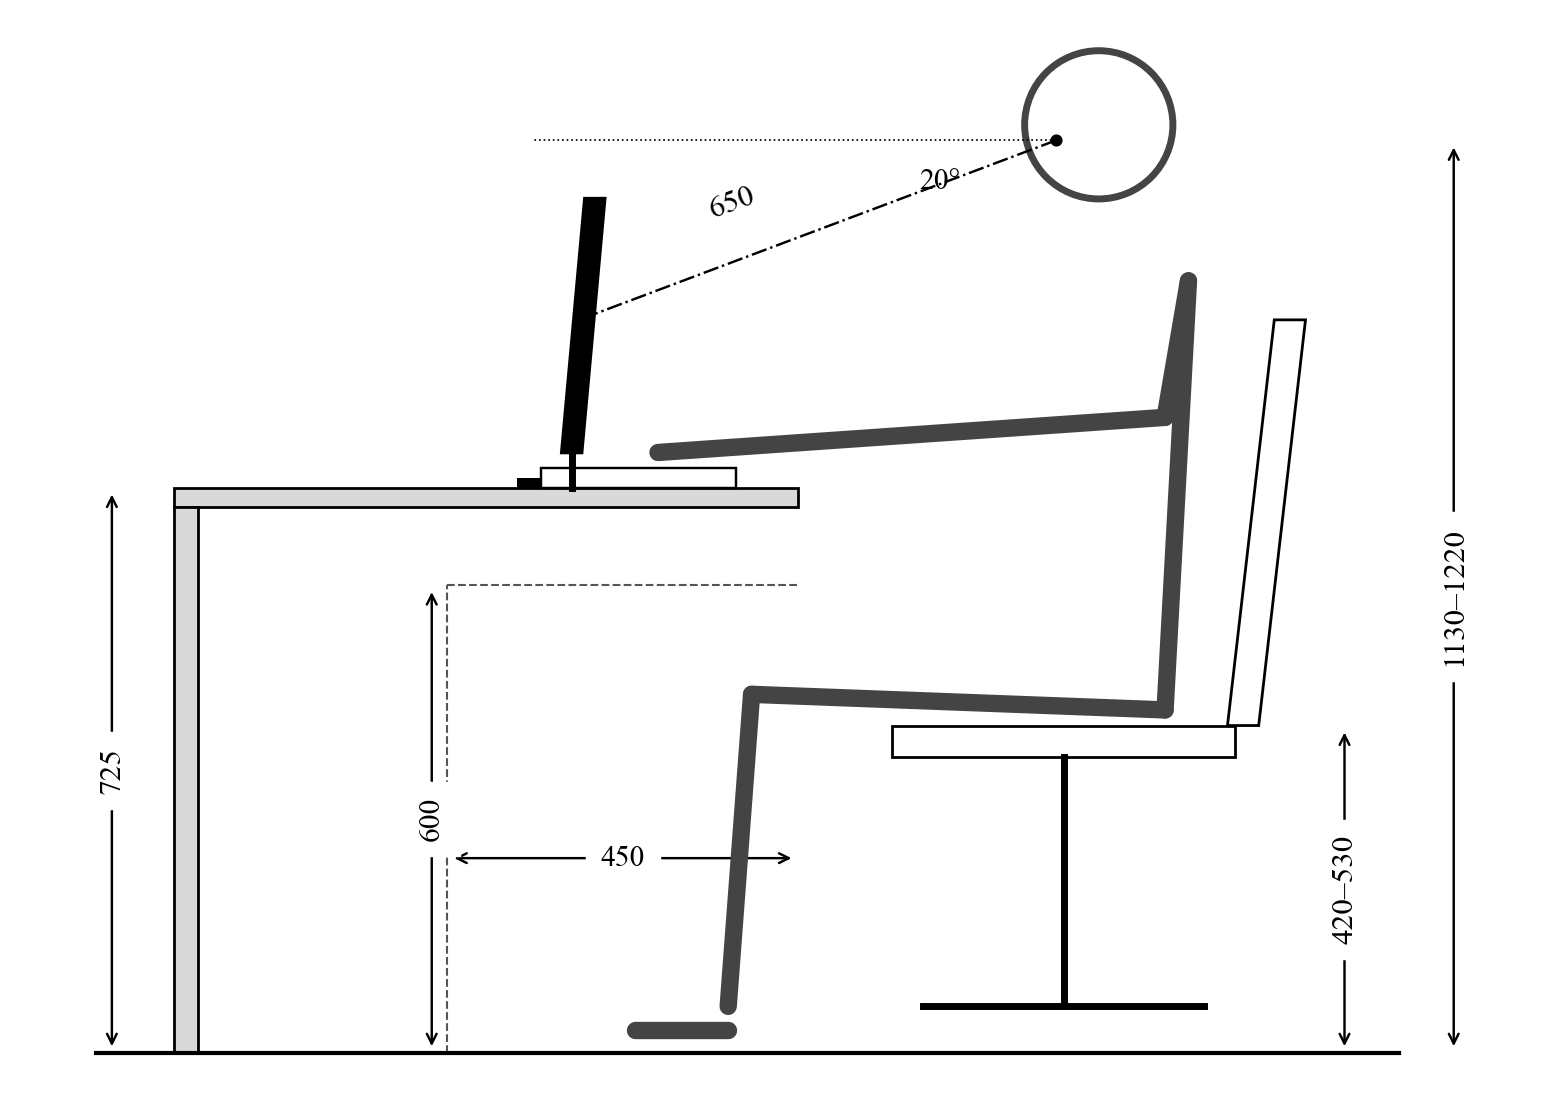
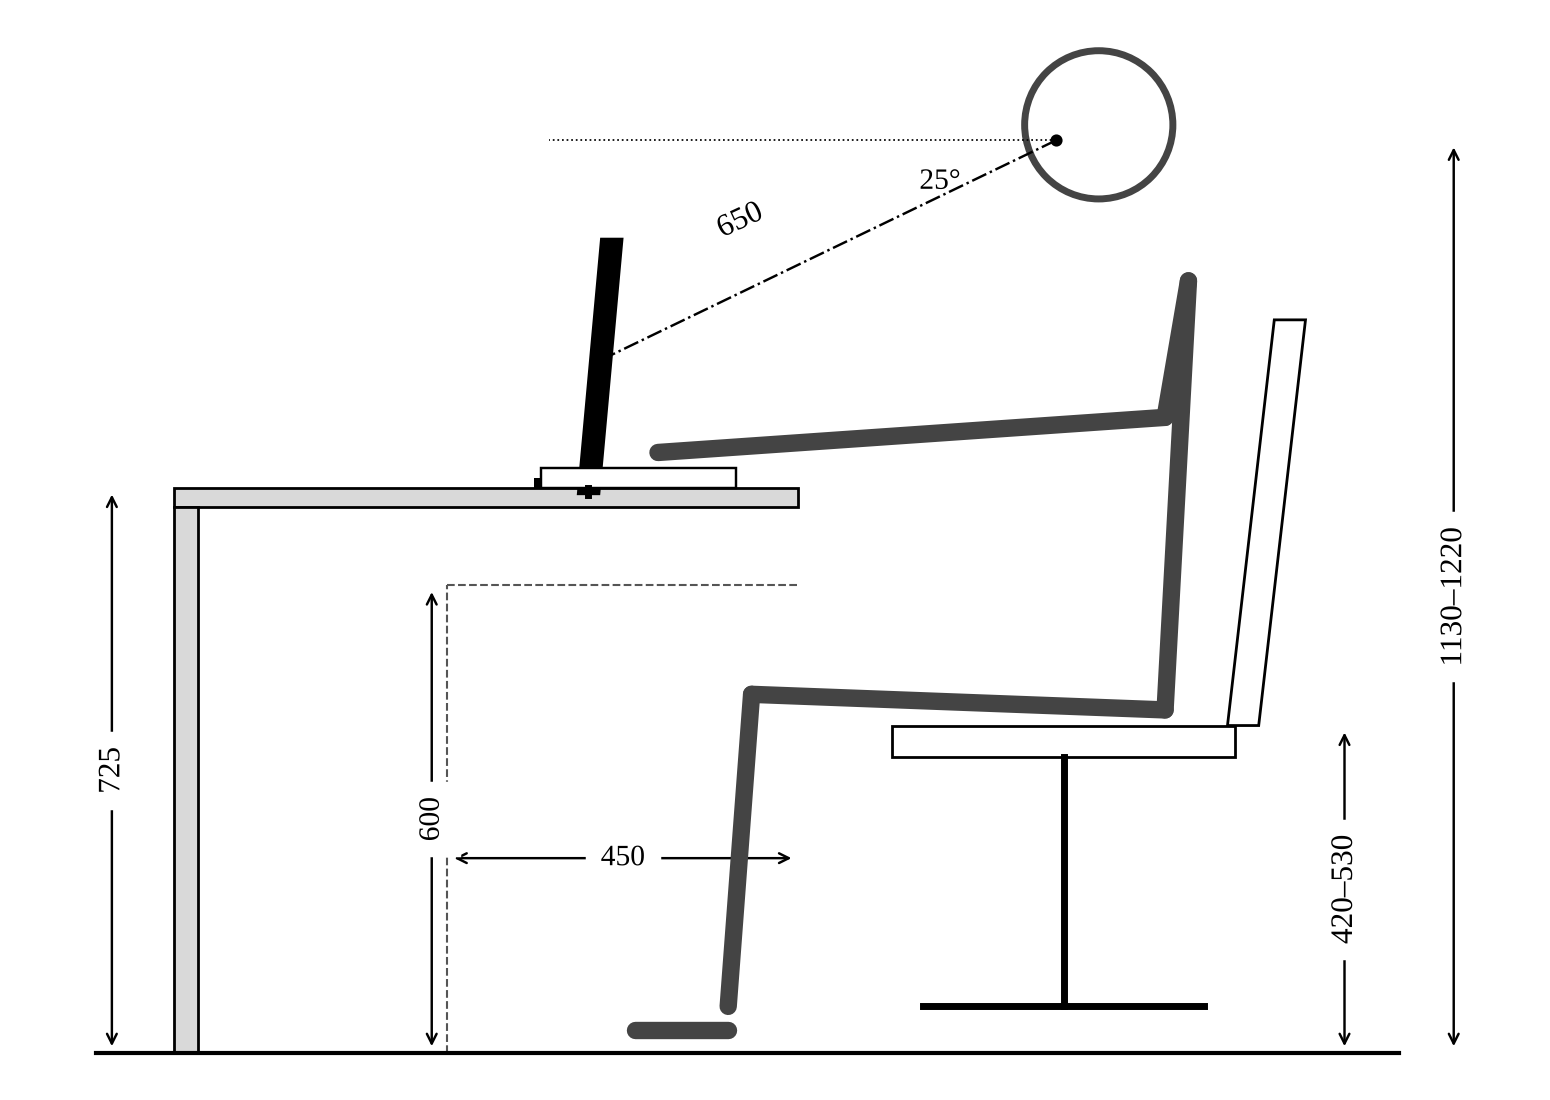
Thesis: viewing angle 25 deg (norm 40) as in the sample, no tripods, one LoRa range, UART symptom matches table 3.2
- labor protection: viewing angle 25 deg in figure, text and table; norm
  'not more than 40' as in the accepted sample; tripods removed (estimate,
  text, workload table); figure font falls back to Liberation Serif
- LoRa speed everywhere 0.3-37.5 kbit/s [AN1200.22; SX127x]
- 3 Mbaud UART: symptom described by the same run as table 3.2

Docx files are rebuilt in the next commit.

Claude-Session: https://claude.ai/code/session_01F7zWgPWK1QF4RLkRPrjcGv

diff --git a/docs/ohrana_truda/figures_ot.py b/docs/ohrana_truda/figures_ot.py
@@ -9,7 +9,9 @@ from matplotlib.patches import Arc, Circle, FancyArrowPatch, Polygon, Rectangle
 
 import calc_ot as C
 
-plt.rcParams.update({"font.family": "Times New Roman", "font.size": 10})
+plt.rcParams.update({"font.family": "serif", "font.size": 10,
+                     # Times New Roman, а где его нет — метрически совместимый Liberation Serif
+                     "font.serif": ["Times New Roman", "Liberation Serif", "DejaVu Serif"]})
 GRAY, DARK = "#d9d9d9", "#555555"
 
 
@@ -98,7 +100,7 @@ ax.plot([desk_x1 - 450, desk_x1 - 450], [0, 600], color=DARK, linewidth=0.6, lin
 ax.plot([desk_x1 - 450, desk_x1], [600, 600], color=DARK, linewidth=0.6, linestyle="--")
 # монитор
 eye = (desk_x1 + 330, EYE_H)
-ang = math.radians(20)
+ang = math.radians(C.MON_ANGLE)
 scr = (eye[0] - ED * math.cos(ang), eye[1] - ED * math.sin(ang))
 ax.add_patch(Polygon([(scr[0] - 25, scr[1] - 180), (scr[0] + 5, scr[1] - 180), (scr[0] + 35, scr[1] + 150),
                       (scr[0] + 5, scr[1] + 150)], closed=True, facecolor="black"))
@@ -128,7 +130,7 @@ ax.plot(*eye, "o", color="black", markersize=2.5)
 # линия взгляда и горизонталь
 ax.plot([eye[0], scr[0] + 20], [eye[1], scr[1]], color="black", linewidth=0.7, linestyle="-.")
 ax.plot([eye[0], scr[0] - 60], [eye[1], eye[1]], color="black", linewidth=0.5, linestyle=":")
-ax.text(eye[0] - 175, eye[1] - 62, "20°", fontsize=8.5)
+ax.text(eye[0] - 175, eye[1] - 62, f"{C.MON_ANGLE}°", fontsize=8.5)
 # пол
 ax.plot([-100, cx + 450], [0, 0], color="black", linewidth=1.2)
 # размеры

diff --git a/docs/ekonomika/calc_economics.py b/docs/ekonomika/calc_economics.py
@@ -113,7 +113,6 @@ COMPONENTS = [
     ("Кабель USB Type-C с передачей данных, 1 м", "шт.", 2, 350, "e"),
     ("Аккумулятор Li-Ion 18650, 3000 мА·ч", "шт.", 4, 450, "e"),
     ("Зарядное устройство для аккумуляторов 18650", "шт.", 1, 900, "e"),
-    ("Штатив для установки плат на заданной высоте", "шт.", 2, 1_500, "e"),
 ]
 PC_POWER_KW = 0.15           # ноутбук + монитор + стенд
 PC_COST = 85_000             # балансовая стоимость ПЭВМ, ₽
